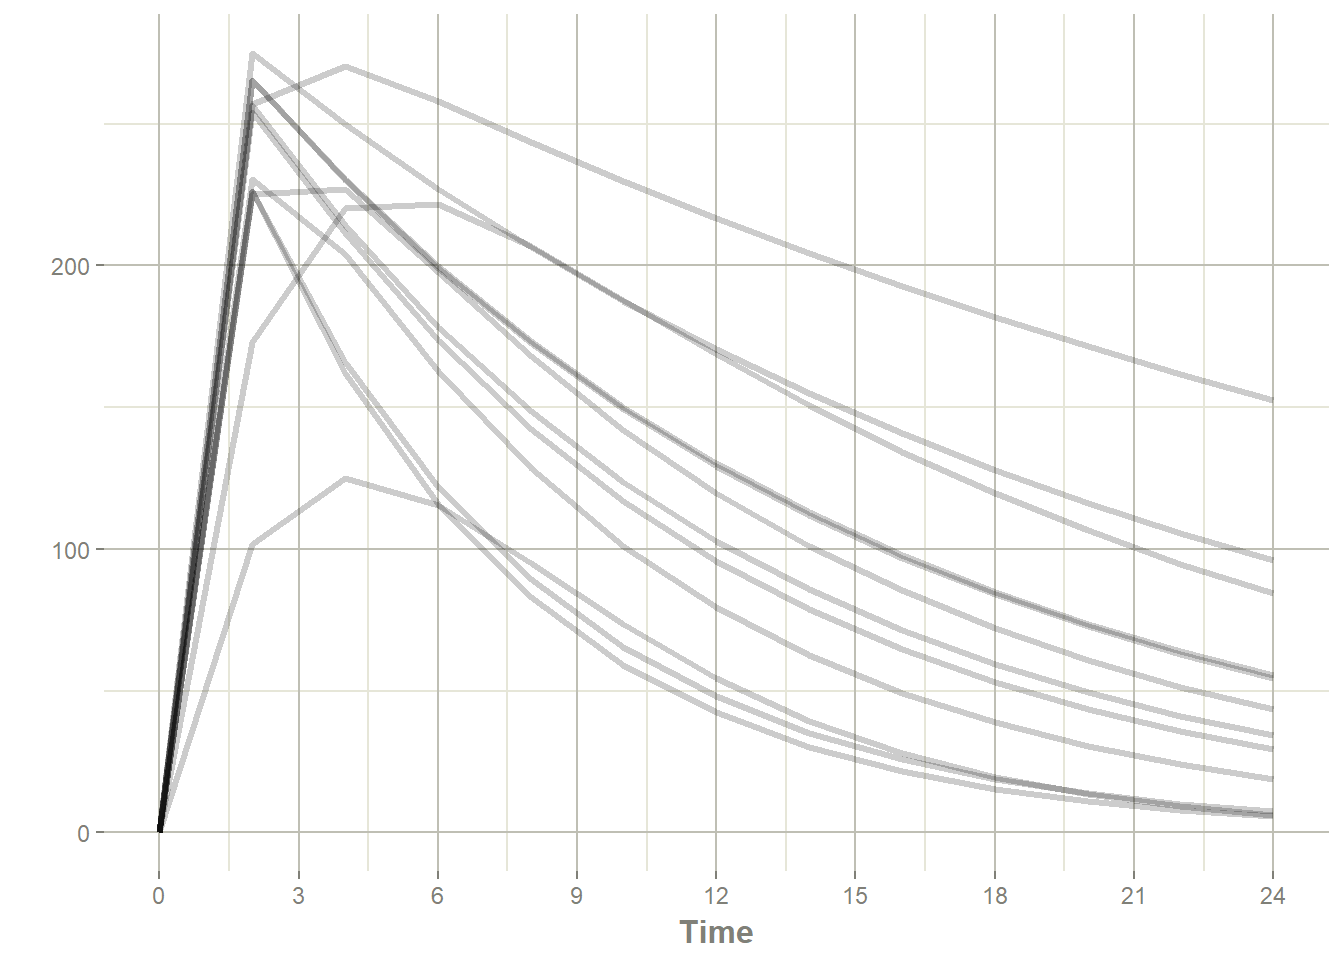
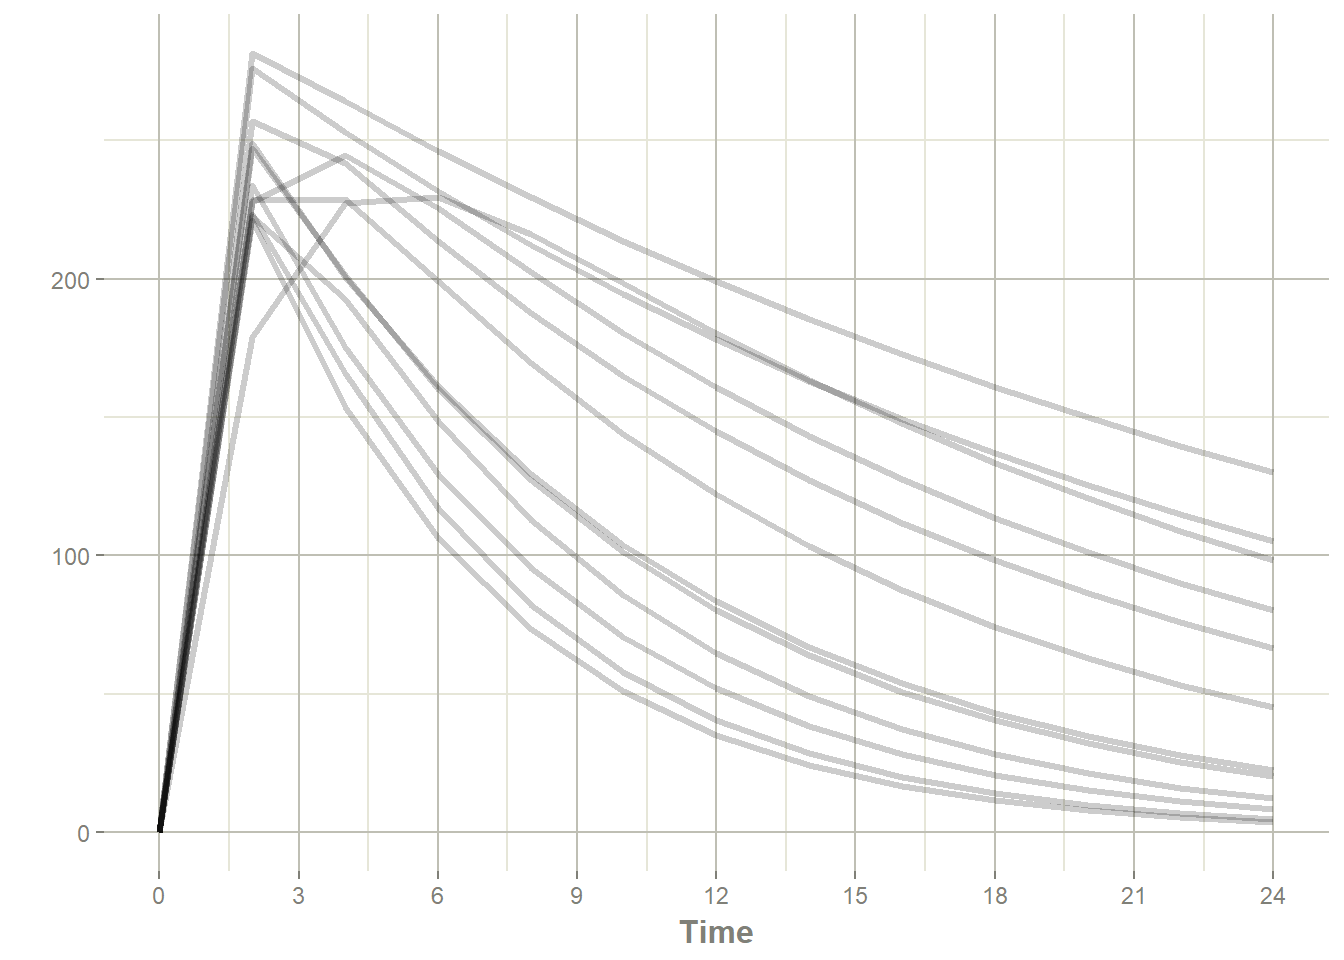
Update

diff --git a/content/blog/2022-10-12-rxode-and-rxode2/index.html b/content/blog/2022-10-12-rxode-and-rxode2/index.html
@@ -82,33 +82,33 @@ s &lt;- rxSolve(one.compartment, et)</code></pre>
 <pre><code>## ── Solved rxode2 object ──
 ## ── Parameters ($params): ──
 ## # A tibble: 12 × 8
-##    id      tka   tcl    tv add.sd eta.ka  eta.cl   eta.v
-##    &lt;fct&gt; &lt;dbl&gt; &lt;dbl&gt; &lt;dbl&gt;  &lt;dbl&gt;  &lt;dbl&gt;   &lt;dbl&gt;   &lt;dbl&gt;
-##  1 1      0.45     1  3.45    0.7  1.33  -0.115   0.477 
-##  2 2      0.45     1  3.45    0.7  0.689 -0.458  -0.517 
-##  3 3      0.45     1  3.45    0.7  1.26   0.363  -0.222 
-##  4 4      0.45     1  3.45    0.7  0.797  0.0901  0.282 
-##  5 5      0.45     1  3.45    0.7 -1.18  -0.306   0.0874
-##  6 6      0.45     1  3.45    0.7  0.716 -0.262  -0.0809
-##  7 7      0.45     1  3.45    0.7 -1.74   1.19    0.293 
-##  8 8      0.45     1  3.45    0.7 -0.348 -0.896   0.183 
-##  9 9      0.45     1  3.45    0.7 -0.301 -0.242  -0.569 
-## 10 10     0.45     1  3.45    0.7  0.668  0.420  -0.246 
-## 11 11     0.45     1  3.45    0.7  0.346  0.181   0.0448
-## 12 12     0.45     1  3.45    0.7 -0.553 -0.406  -0.387 
+##    id      tka   tcl    tv add.sd  eta.ka   eta.cl   eta.v
+##    &lt;fct&gt; &lt;dbl&gt; &lt;dbl&gt; &lt;dbl&gt;  &lt;dbl&gt;   &lt;dbl&gt;    &lt;dbl&gt;   &lt;dbl&gt;
+##  1 1      0.45     1  3.45    0.7  1.98   -0.370    0.308 
+##  2 2      0.45     1  3.45    0.7 -1.14   -0.0839   0.443 
+##  3 3      0.45     1  3.45    0.7 -0.120  -0.0559   0.233 
+##  4 4      0.45     1  3.45    0.7 -0.342   0.773    0.298 
+##  5 5      0.45     1  3.45    0.7 -0.514  -0.218   -0.175 
+##  6 6      0.45     1  3.45    0.7  0.457  -0.530    0.361 
+##  7 7      0.45     1  3.45    0.7  0.583   0.364   -0.394 
+##  8 8      0.45     1  3.45    0.7  0.0293  0.294   -0.419 
+##  9 9      0.45     1  3.45    0.7  0.714   0.155   -0.0836
+## 10 10     0.45     1  3.45    0.7  0.244   0.0393  -0.244 
+## 11 11     0.45     1  3.45    0.7  0.366  -0.00557 -0.571 
+## 12 12     0.45     1  3.45    0.7 -0.616  -0.444   -0.0443
 ## ── Initial Conditions ($inits): ──
 ##  depot center 
 ##      0      0 
 ## ── First part of data (object): ──
 ## # A tibble: 156 × 10
-##      id  time    ka    cl     v    cp ipredSim   sim     depot center
-##   &lt;int&gt; &lt;dbl&gt; &lt;dbl&gt; &lt;dbl&gt; &lt;dbl&gt; &lt;dbl&gt;    &lt;dbl&gt; &lt;dbl&gt;     &lt;dbl&gt;  &lt;dbl&gt;
-## 1     1     0  5.96  2.42  50.7  0        0    0.339  3   e+ 2     0 
-## 2     1     2  5.96  2.42  50.7  5.42     5.42 4.93   2.00e- 3   275.
-## 3     1     4  5.96  2.42  50.7  4.92     4.92 5.79   1.32e- 8   250.
-## 4     1     6  5.96  2.42  50.7  4.47     4.47 4.66  -5.39e- 9   227.
-## 5     1     8  5.96  2.42  50.7  4.07     4.07 2.37  -9.15e-11   206.
-## 6     1    10  5.96  2.42  50.7  3.70     3.70 4.00   1.06e- 9   188.
+##      id  time    ka    cl     v    cp ipredSim    sim     depot center
+##   &lt;int&gt; &lt;dbl&gt; &lt;dbl&gt; &lt;dbl&gt; &lt;dbl&gt; &lt;dbl&gt;    &lt;dbl&gt;  &lt;dbl&gt;     &lt;dbl&gt;  &lt;dbl&gt;
+## 1     1     0  11.3  1.88  42.9  0        0    -0.299  3   e+ 2     0 
+## 2     1     2  11.3  1.88  42.9  6.44     6.44  6.45   4.50e- 8   276.
+## 3     1     4  11.3  1.88  42.9  5.90     5.90  5.80   4.21e-10   253.
+## 4     1     6  11.3  1.88  42.9  5.40     5.40  5.51  -1.19e-11   232.
+## 5     1     8  11.3  1.88  42.9  4.95     4.95  4.02   1.73e-12   212.
+## 6     1    10  11.3  1.88  42.9  4.54     4.54  4.08  -7.33e-12   194.
 ## # … with 150 more rows</code></pre>
 <pre class="r"><code>plot(s, center)</code></pre>
 <p><img src="{{< blogdown/postref >}}index_files/figure-html/simulation-1.png" width="672" /></p>
@@ -168,33 +168,33 @@ print(s)</code></pre>
 <pre><code>## ── Solved rxode2 object ──
 ## ── Parameters ($params): ──
 ## # A tibble: 12 × 7
-##    id      tka   tcl    tv add.sd  eta.cl    eta.v
-##    &lt;fct&gt; &lt;dbl&gt; &lt;dbl&gt; &lt;dbl&gt;  &lt;dbl&gt;   &lt;dbl&gt;    &lt;dbl&gt;
-##  1 1      0.45     1  3.45    0.7 -0.0292  0.160  
-##  2 2      0.45     1  3.45    0.7  0.458   0.110  
-##  3 3      0.45     1  3.45    0.7 -0.591  -0.592  
-##  4 4      0.45     1  3.45    0.7 -0.600  -0.0675 
-##  5 5      0.45     1  3.45    0.7 -0.317  -0.176  
-##  6 6      0.45     1  3.45    0.7 -0.653  -0.138  
-##  7 7      0.45     1  3.45    0.7 -0.427  -0.437  
-##  8 8      0.45     1  3.45    0.7  1.09    0.00414
-##  9 9      0.45     1  3.45    0.7 -0.935   0.127  
-## 10 10     0.45     1  3.45    0.7 -0.501   0.0158 
-## 11 11     0.45     1  3.45    0.7 -0.503   0.320  
-## 12 12     0.45     1  3.45    0.7  0.316  -0.562  
+##    id      tka   tcl    tv add.sd   eta.cl     eta.v
+##    &lt;fct&gt; &lt;dbl&gt; &lt;dbl&gt; &lt;dbl&gt;  &lt;dbl&gt;    &lt;dbl&gt;     &lt;dbl&gt;
+##  1 1      0.45     1  3.45    0.7  0.330    0.0210  
+##  2 2      0.45     1  3.45    0.7 -0.250   -0.388   
+##  3 3      0.45     1  3.45    0.7 -0.477   -0.191   
+##  4 4      0.45     1  3.45    0.7 -0.00865  0.284   
+##  5 5      0.45     1  3.45    0.7  0.954    0.372   
+##  6 6      0.45     1  3.45    0.7  0.343    0.248   
+##  7 7      0.45     1  3.45    0.7 -0.766   -0.260   
+##  8 8      0.45     1  3.45    0.7  0.230   -0.940   
+##  9 9      0.45     1  3.45    0.7 -0.0727  -0.540   
+## 10 10     0.45     1  3.45    0.7 -0.269   -0.146   
+## 11 11     0.45     1  3.45    0.7  0.661   -0.0711  
+## 12 12     0.45     1  3.45    0.7  0.532   -0.000518
 ## ── Initial Conditions ($inits): ──
 ##  depot center 
 ##      0      0 
 ## ── First part of data (object): ──
 ## # A tibble: 156 × 10
-##      id  time    ka    cl     v    cp ipredSim   sim       depot center
-##   &lt;int&gt; &lt;dbl&gt; &lt;dbl&gt; &lt;dbl&gt; &lt;dbl&gt; &lt;dbl&gt;    &lt;dbl&gt; &lt;dbl&gt;       &lt;dbl&gt;  &lt;dbl&gt;
-## 1     1     0  1.57  2.64  37.0  0        0    -1.07 300             0 
-## 2     1     2  1.57  2.64  37.0  7.00     7.00  6.89  13.0         259.
-## 3     1     4  1.57  2.64  37.0  6.37     6.37  6.17   0.566       236.
-## 4     1     6  1.57  2.64  37.0  5.54     5.54  6.81   0.0246      205.
-## 5     1     8  1.57  2.64  37.0  4.80     4.80  4.30   0.00107     178.
-## 6     1    10  1.57  2.64  37.0  4.16     4.16  4.74   0.0000463   154.
+##      id  time    ka    cl     v    cp ipredSim    sim       depot center
+##   &lt;int&gt; &lt;dbl&gt; &lt;dbl&gt; &lt;dbl&gt; &lt;dbl&gt; &lt;dbl&gt;    &lt;dbl&gt;  &lt;dbl&gt;       &lt;dbl&gt;  &lt;dbl&gt;
+## 1     1     0  1.57  3.78  32.2  0        0    -0.226 300             0 
+## 2     1     2  1.57  3.78  32.2  7.53     7.53  9.17   13.0         242.
+## 3     1     4  1.57  3.78  32.2  6.28     6.28  7.76    0.566       202.
+## 4     1     6  1.57  3.78  32.2  4.98     4.98  4.92    0.0246      160.
+## 5     1     8  1.57  3.78  32.2  3.94     3.94  4.44    0.00107     127.
+## 6     1    10  1.57  3.78  32.2  3.11     3.11  2.80    0.0000463   100.
 ## # … with 150 more rows</code></pre>
 <pre class="r"><code>plot(s, center)</code></pre>
 <p><img src="{{< blogdown/postref >}}index_files/figure-html/piping-1.png" width="672" /></p>

diff --git a/content/blog/2022-10-13-mrgsolve-vs-rxode2/index.html b/content/blog/2022-10-13-mrgsolve-vs-rxode2/index.html
@@ -90,15 +90,18 @@ When it converts to either NONMEM or Monolix, the fit then runs the model agains
 <h1>Am I missing something?</h1>
 <p>If I am mistaken about any of the wonderful features of <code>mrgsolve</code> please let me
 know. If I’m overlooking one of your favorite features of <code>rxode2</code>, please also let me know!</p>
+<div id="references" class="section level3 unnumbered">
+<h3>References</h3>
 <div id="refs" class="references csl-bib-body">
 <div id="ref-Elmokadem2019" class="csl-entry">
-<div class="csl-left-margin">1. </div><div class="csl-right-inline">Elmokadem A, Riggs MM, Baron KT. <span class="nocase">Quantitative Systems Pharmacology and Physiologically-Based Pharmacokinetic Modeling With mrgsolve: A Hands-On Tutorial</span>. CPT: Pharmacometrics and Systems Pharmacology [Internet]. 2019 Dec;8(12):883–93. Available from: <a href="https://onlinelibrary.wiley.com/doi/full/10.1002/psp4.12467 https://onlinelibrary.wiley.com/doi/abs/10.1002/psp4.12467 https://ascpt.onlinelibrary.wiley.com/doi/10.1002/psp4.12467">https://onlinelibrary.wiley.com/doi/full/10.1002/psp4.12467 https://onlinelibrary.wiley.com/doi/abs/10.1002/psp4.12467 https://ascpt.onlinelibrary.wiley.com/doi/10.1002/psp4.12467</a></div>
+<div class="csl-left-margin">1. </div><div class="csl-right-inline">Elmokadem A, Riggs MM, Baron KT. <a href="https://doi.org/10.1002/psp4.12467"><span class="nocase">Quantitative Systems Pharmacology and Physiologically-Based Pharmacokinetic Modeling With mrgsolve: A Hands-On Tutorial</span></a>. CPT: Pharmacometrics and Systems Pharmacology. 2019 Dec;8(12):883–93. </div>
 </div>
 <div id="ref-Duffull2014" class="csl-entry">
 <div class="csl-left-margin">2. </div><div class="csl-right-inline">Duffull SB, Hegarty G. <a href="https://doi.org/10.4172/jtco.1000119"><span class="nocase">An Inductive Approximation to the Solution of Systems of Nonlinear Ordinary Differential Equations in Pharmacokinetics-Pharmacodynamics</span></a>. Journal of Theoretical and Computational Science. 2014;02(01):1–4. </div>
 </div>
 <div id="ref-Hasegawa2018" class="csl-entry">
 <div class="csl-left-margin">3. </div><div class="csl-right-inline">Hasegawa C, Duffull SB. <span class="nocase">Exploring inductive linearization for pharmacokinetic–pharmacodynamic systems of nonlinear ordinary differential equations</span>. Journal of Pharmacokinetics and Pharmacodynamics [Internet]. 2018 May;45(1):35–47. Available from: <a href="https://link.springer.com/article/10.1007/s10928-017-9527-z">https://link.springer.com/article/10.1007/s10928-017-9527-z</a></div>
+</div>
 </div>
 </div>
 </div>
